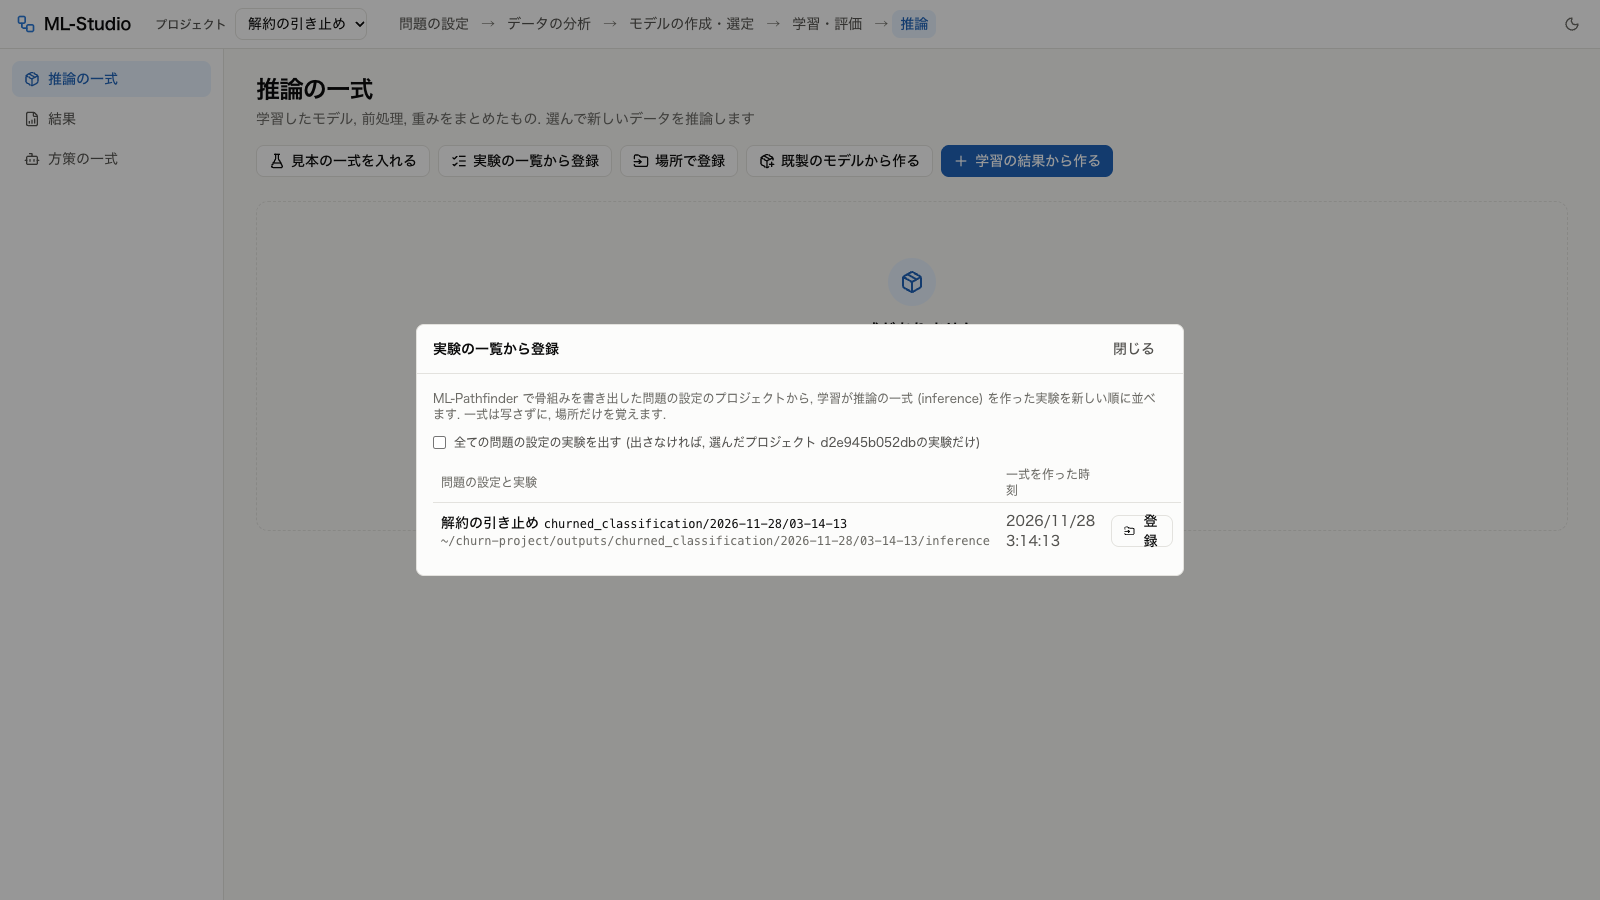
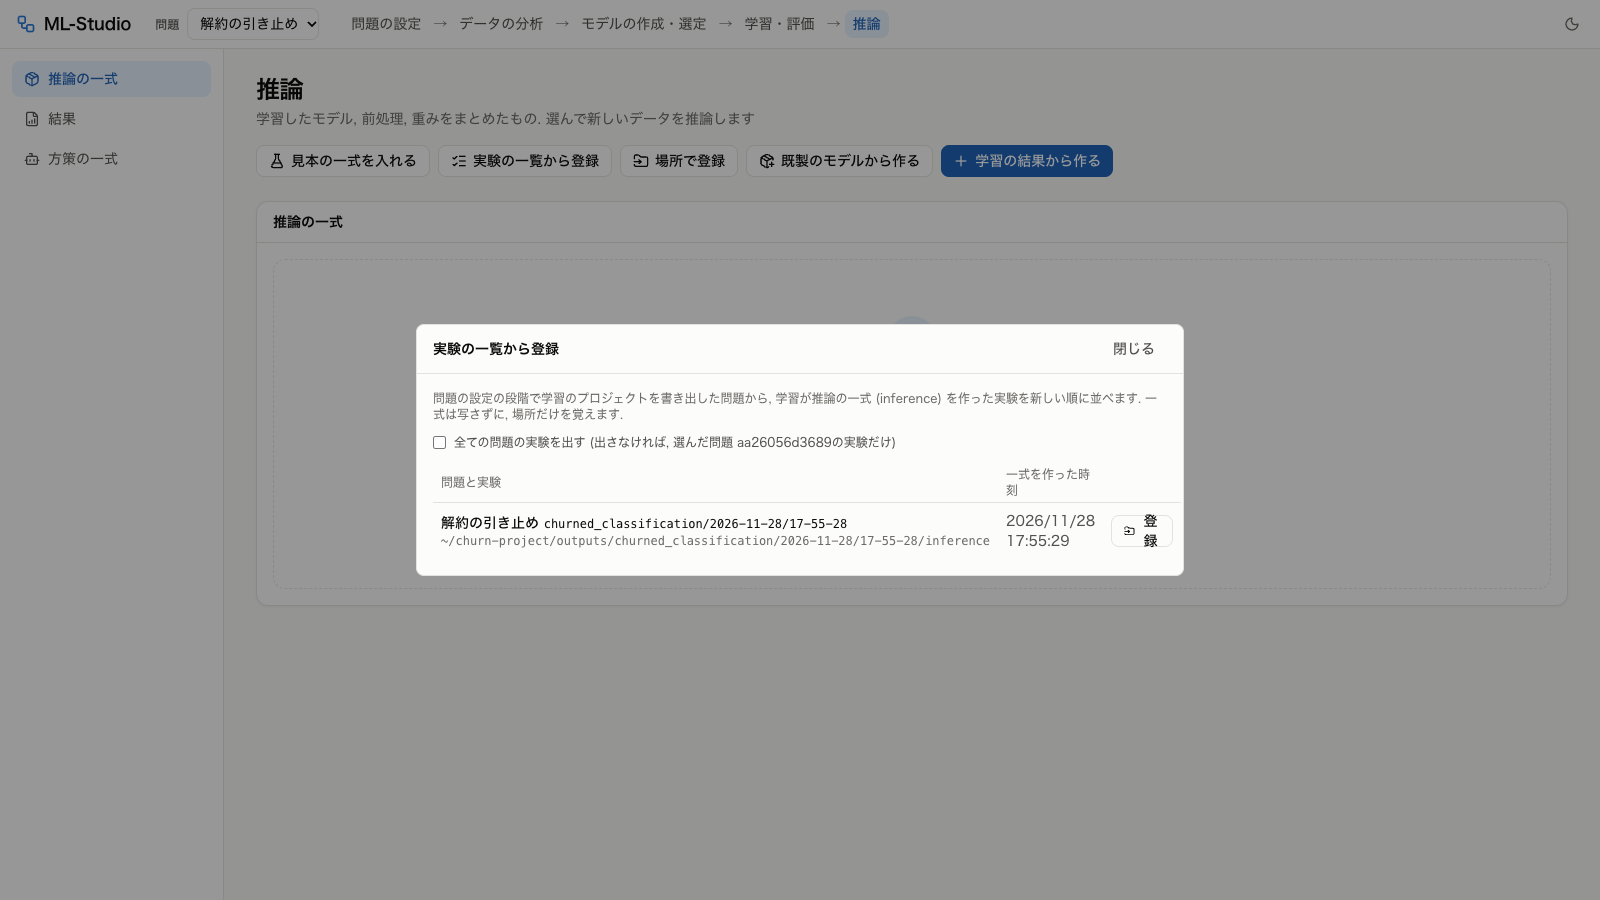
README と操作ガイドの画面の例を今の画面で撮り直す

diff --git a/TODO.md b/TODO.md
@@ -5,19 +5,15 @@
 
 ## 優先度 高
 
-### 画面の例の画像を撮り直す
-- 何を: README と docs/GUIDE.md の画像 (`docs/images/*.png`, `docs/images/guide/*.png`) を撮り直す. 今の画像は上の帯の欄の名前が「プロジェクト」のまま写っている. 次の画像は, 段階の画面の文も前の語のまま写っている (括弧の中は今の画面の文): `docs/images/export.png` (「この場所を問題に記録しました」), `docs/images/guide/data_start.png` (「選んだ問題」のカードと「この問題から始める」), `docs/images/guide/model_project.png` (「データセットと学習のプロジェクト」の対話の「選んだ問題」と「学習のプロジェクトに保存」), `docs/images/guide/train_start.png` (「選んだ問題」の欄), `docs/images/guide/infer_register.png` (「全ての問題の実験を出す」)
-- なぜ: 画面の欄の名前は「問題」で, 段階の画面の語も表に合い, 各段階の頭の見出しも段階の名前になったので, 文と画像の語が食い違うため
-- 終わりの条件: 全ての画像の上の帯に「問題」の欄が写り, 段階の画面の語と頭の見出しが今の画面と同じになる
-- つながり: 無し
-
-## 優先度 中
-
 ### Linux の殻で torchaudio の部品を使えるようにする
 - 何を: 上流が殻の torch (2.15) に合う torchaudio を出したら, Linux で `make extras EXTRAS=torchaudio` (と `all`) を足して torchaudio の部品が使えるかを確かめ, 要るなら殻の lock の torch の版を合わせる (今は PyPI にも CPU の index にも torch 2.15 に合う torchaudio が無く, 2.11 までしか無い)
 - なぜ: torch 2.15 と torchaudio 2.11 の上流の版のずれで, Linux では torchaudio を読み込めず, torchaudio の部品が使えないため
 - 終わりの条件: Linux で torchaudio を足した殻で, モデルの作成・選定の段階の部品の一覧に torchaudio の部品が使えると出る. docs/DESIGN.md の 6 と 8 の節, README, docs/GUIDE.md の Linux の断りを消す
 - つながり: 無し
+
+## 優先度 中
+
+無し
 
 ## 優先度 低
 

diff --git a/README.md b/README.md
@@ -24,7 +24,7 @@
     <td><b>学習・評価</b>. 記録した学習のプロジェクトを登録し, 画面から学習を起動して進み具合を見る</td>
   </tr>
   <tr>
-    <td><img src="docs/images/infer.png" alt="推論: 実験から登録した推論の一式で手元の表を推論した結果. 結論の件数と, 意思決定 (だから何をするか)"></td>
+    <td><img src="docs/images/infer.png" alt="推論: 実験から登録した推論の一式で, 元のデータセットのテスト用の分割を推論した結果. 結論の件数と, 意思決定 (だから何をするか)"></td>
     <td><img src="docs/images/dark.png" alt="暗い表示: 上の帯の切り替えで, 推論の結果の画面も暗い表示になる"></td>
   </tr>
   <tr>
